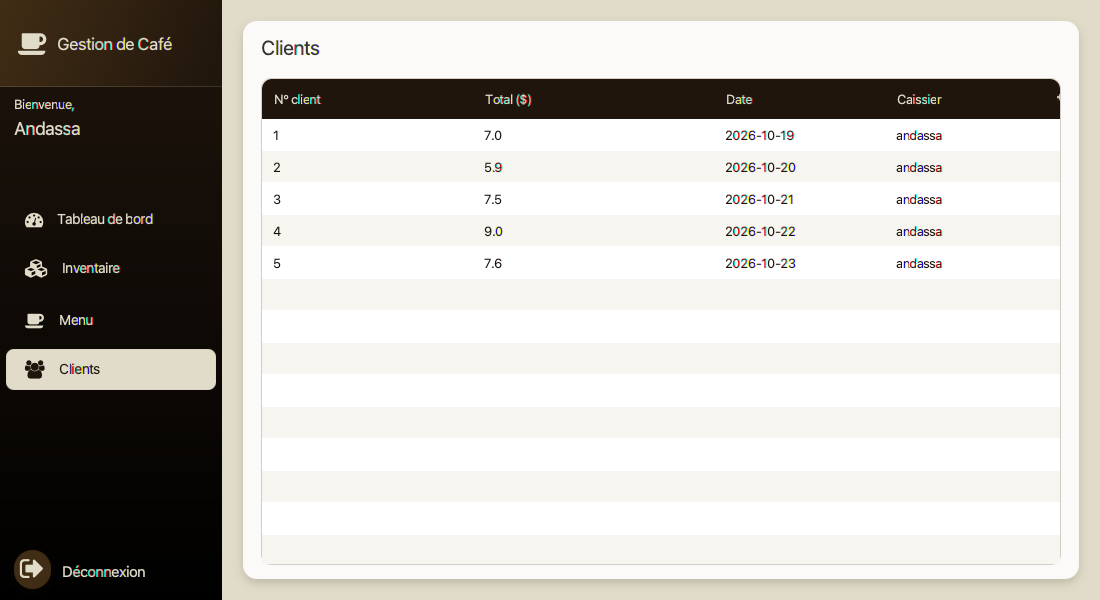
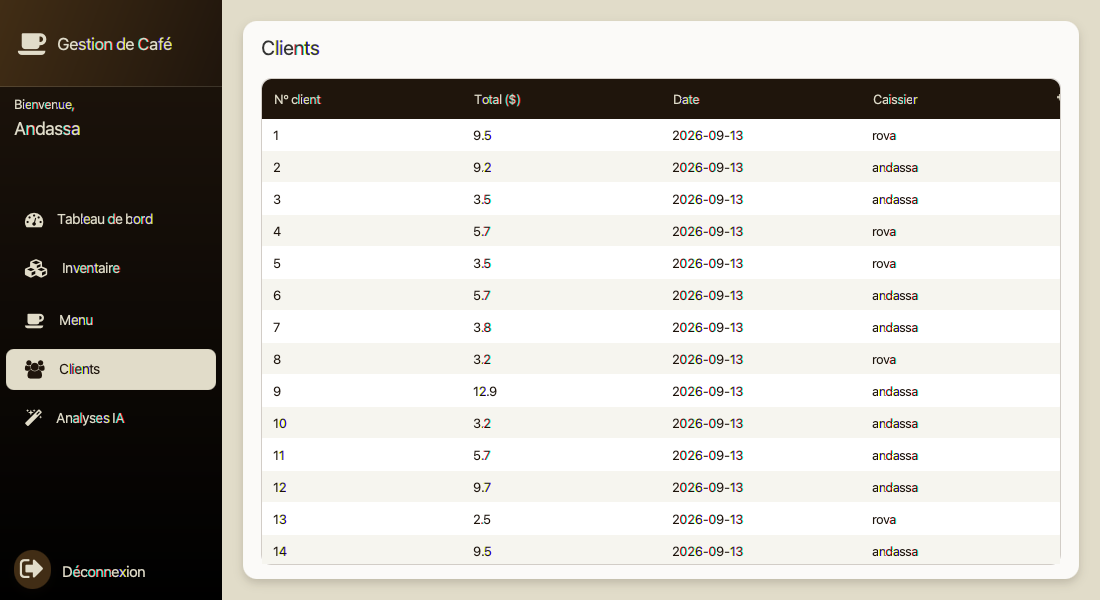
docs: section Intelligence artificielle, configuration gratuite et captures

diff --git a/README.md b/README.md
@@ -1,7 +1,8 @@
 # CafeShopManagement
 
 Application de bureau de **gestion de café** développée en **JavaFX** avec une base de données **MySQL**.
-Elle permet de gérer les employés, le stock de produits, la prise de commandes, les paiements et l'édition de reçus.
+Elle permet de gérer les employés, le stock de produits, la prise de commandes, les paiements et l'édition de reçus,
+avec des **analyses IA** gratuites : prévision de stock, suggestions de produits, détection d'anomalies et assistant en langage naturel.
 
 [![CI](https://github.com/Andassa/CafeShopManagement/actions/workflows/ci.yml/badge.svg)](https://github.com/Andassa/CafeShopManagement/actions/workflows/ci.yml)
 [![Security](https://github.com/Andassa/CafeShopManagement/actions/workflows/security.yml/badge.svg)](https://github.com/Andassa/CafeShopManagement/actions/workflows/security.yml)
@@ -32,12 +33,17 @@ Elle permet de gérer les employés, le stock de produits, la prise de commandes
 |---------|------|
 | ![Clients](docs/screenshots/clients.png) | ![Reçu](docs/screenshots/recu.png) |
 
+| Analyses IA | Assistant IA |
+|-------------|--------------|
+| ![Analyses IA](docs/screenshots/analyses-ia.png) | ![Assistant IA](docs/screenshots/assistant-ia.png) |
+
 ---
 
 ## Sommaire
 
 - [Aperçu](#aperçu)
 - [Fonctionnalités](#fonctionnalités)
+- [Intelligence artificielle](#intelligence-artificielle)
 - [Technologies](#technologies)
 - [Structure du projet](#structure-du-projet)
 - [Base de données](#base-de-données)
@@ -80,6 +86,57 @@ Elle permet de gérer les employés, le stock de produits, la prise de commandes
 ### Clients
 - Historique des commandes / reçus (ID client, total, date, caissier)
 
+### Analyses IA
+- Prévision de stock et quantités à commander
+- Suggestion de produit pendant la prise de commande
+- Analyse du jour : tendances, anomalies, produits en perte de vitesse
+- Assistant : questions en français sur les données du café
+
+---
+
+## Intelligence artificielle
+
+Toutes les fonctionnalités sont **gratuites**. Les trois premières sont calculées localement, sans service externe ni dépendance supplémentaire.
+
+| Fonctionnalité | Méthode | Où |
+|----------------|---------|----|
+| **Prévision de stock** | Lissage de **Holt-Winters** additif (niveau, tendance, saisonnalité hebdomadaire) sur 6 semaines. La date de rupture est estimée par cumul des ventes prévues, et la quantité à commander couvre 7 jours avec un **stock de sécurité** à 95 % (1,65 × écart-type des erreurs × √7). | Analyses IA |
+| **Suggestions** | **Règles d'association** (analyse de panier) : confiance P(B \| A) et lift calculés sur toutes les commandes payées. Seules les règles avec un lift supérieur à 1,1 sont proposées. | Menu |
+| **Anomalies** | Chaque jour est comparé aux 4 mêmes jours de la semaine précédents avec la **médiane et l'écart absolu médian** (score z robuste, seuil 3). Un produit qui se vendait mais plus du tout depuis 7 jours est aussi signalé. | Analyses IA |
+| **Assistant** | Un modèle de langage traduit la question en SQL, l'application l'exécute, puis le modèle rédige la réponse à partir du résultat. | Analyses IA |
+
+### Sécurité de l'assistant
+
+La requête générée par le modèle n'est jamais exécutée telle quelle :
+
+- une seule requête `SELECT` ou `WITH`, sans commentaire ni point-virgule ;
+- mots-clés d'écriture et fonctions dangereuses refusés (`INSERT`, `DROP`, `INTO OUTFILE`, `SLEEP`...) ;
+- accès interdit à la table `employee` (mots de passe) et aux schémas système ;
+- connexion en **lecture seule**, délai maximal de 5 secondes, 200 lignes maximum ;
+- la clé d'API est lue dans une variable d'environnement, jamais dans le code (vérifié par Gitleaks).
+
+Ces règles sont couvertes par les tests unitaires (`tests/`), lancés à chaque push par la CI.
+
+### Activer l'assistant (gratuit)
+
+L'assistant fonctionne avec tout fournisseur compatible avec l'API OpenAI. Sans configuration, le reste de l'application fonctionne normalement.
+
+| Fournisseur | Configuration |
+|-------------|---------------|
+| **Groq** (par défaut) | Clé gratuite sur [console.groq.com/keys](https://console.groq.com/keys), puis `export AI_API_KEY=votre_cle` |
+| **Google Gemini** | Clé gratuite sur [aistudio.google.com](https://aistudio.google.com/apikey), `AI_BASE_URL=https://generativelanguage.googleapis.com/v1beta/openai` et `AI_MODEL=gemini-2.0-flash` |
+| **Ollama** (local, sans clé) | `AI_BASE_URL=http://localhost:11434/v1` et `AI_MODEL=llama3.2` |
+
+### Données de démonstration
+
+Pour tester les analyses, un script génère 6 semaines de ventes réalistes (affluence selon le jour, produits souvent achetés ensemble, une journée anormale, un produit en perte de vitesse) :
+
+```bash
+python3 scripts/demo_data.py | mysql -h 127.0.0.1 -u root cafe
+```
+
+Attention : le script vide les tables `product`, `customer` et `receipt`. Compte de démonstration : `andassa` / `cafe12345`.
+
 ---
 
 ## Technologies
@@ -95,6 +152,7 @@ Elle permet de gérer les employés, le stock de produits, la prise de commandes
 | Conteneurs       | Docker Compose (MySQL 8 + Adminer) |
 | CI/CD            | GitHub Actions               |
 | Sécurité         | CodeQL, Gitleaks, Trivy, Dependabot |
+| IA               | Holt-Winters, règles d'association, score z robuste, LLM compatible OpenAI |
 
 ---
 
@@ -108,11 +166,17 @@ Elle permet de gérer les employés, le stock de produits, la prise de commandes
 │   │   ├── security.yml                # CodeQL, Gitleaks, Trivy
 │   │   └── release.yml                 # Publication des releases sur tag
 │   └── dependabot.yml                  # Mises à jour automatiques
-├── database/schema.sql                 # Schéma de la base `cafe`
+├── database/
+│   ├── schema.sql                      # Schéma de la base `cafe`
+│   └── demo/images/                    # Visuels des produits de démonstration
 ├── docs/screenshots/                   # Captures d'écran
 ├── docker-compose.yml                  # MySQL + Adminer
 ├── .env.example                        # Variables d'environnement
-├── scripts/build.sh                    # Build sans NetBeans
+├── scripts/
+│   ├── build.sh                        # Build sans NetBeans
+│   ├── test.sh                         # Tests unitaires
+│   └── demo_data.py                    # Données de démonstration
+├── tests/                              # Tests des analyses IA et du garde-fou SQL
 └── cafeShopManagementSystem/
     ├── src/cafeshopmanagementsystem/
     │   ├── CafeShopManagementSystem.java   # Point d'entrée de l'application
@@ -124,6 +188,9 @@ Elle permet de gérer les employés, le stock de produits, la prise de commandes
     │   ├── customersData.java              # Modèle client / reçu
     │   ├── data.java                       # Données partagées (session)
     │   ├── traduction.java                 # Libellés français des valeurs en base
+    │   ├── analyseVentes.java              # Prévisions, suggestions, anomalies
+    │   ├── assistantIA.java                # Assistant en langage naturel
+    │   ├── aiForm.fxml / Controller        # Écran Analyses IA
     │   ├── report.jrxml                    # Modèle du reçu JasperReports
     │   └── *.css                           # Styles des écrans
     ├── dist/lib/                           # Dépendances (.jar)
@@ -245,7 +312,7 @@ java -jar out/package/CafeShopManagement.jar
 
 | Workflow | Déclencheur | Rôle |
 |----------|-------------|------|
-| **CI** (`ci.yml`) | push / pull request sur `main` | Compilation JDK 8 + JavaFX, packaging du jar (artefact), application du schéma sur un MySQL 8 de test, validation de `docker-compose.yml` |
+| **CI** (`ci.yml`) | push / pull request sur `main` | Compilation JDK 8 + JavaFX, packaging du jar (artefact), tests unitaires, application du schéma et des données de démonstration sur un MySQL 8 de test, validation de `docker-compose.yml` |
 | **Security** (`security.yml`) | push, pull request, chaque lundi | **CodeQL** (analyse statique du code Java), **Gitleaks** (détection de secrets dans l'historique), **Trivy** (CVE des bibliothèques jar) avec résultats dans l'onglet *Security* |
 | **Release** (`release.yml`) | tag `v*` | Build puis publication d'une release GitHub avec l'archive prête à l'emploi (jar + lib + schéma SQL) |
 | **Dependabot** | chaque semaine | Mise à jour des actions GitHub et des images Docker |
